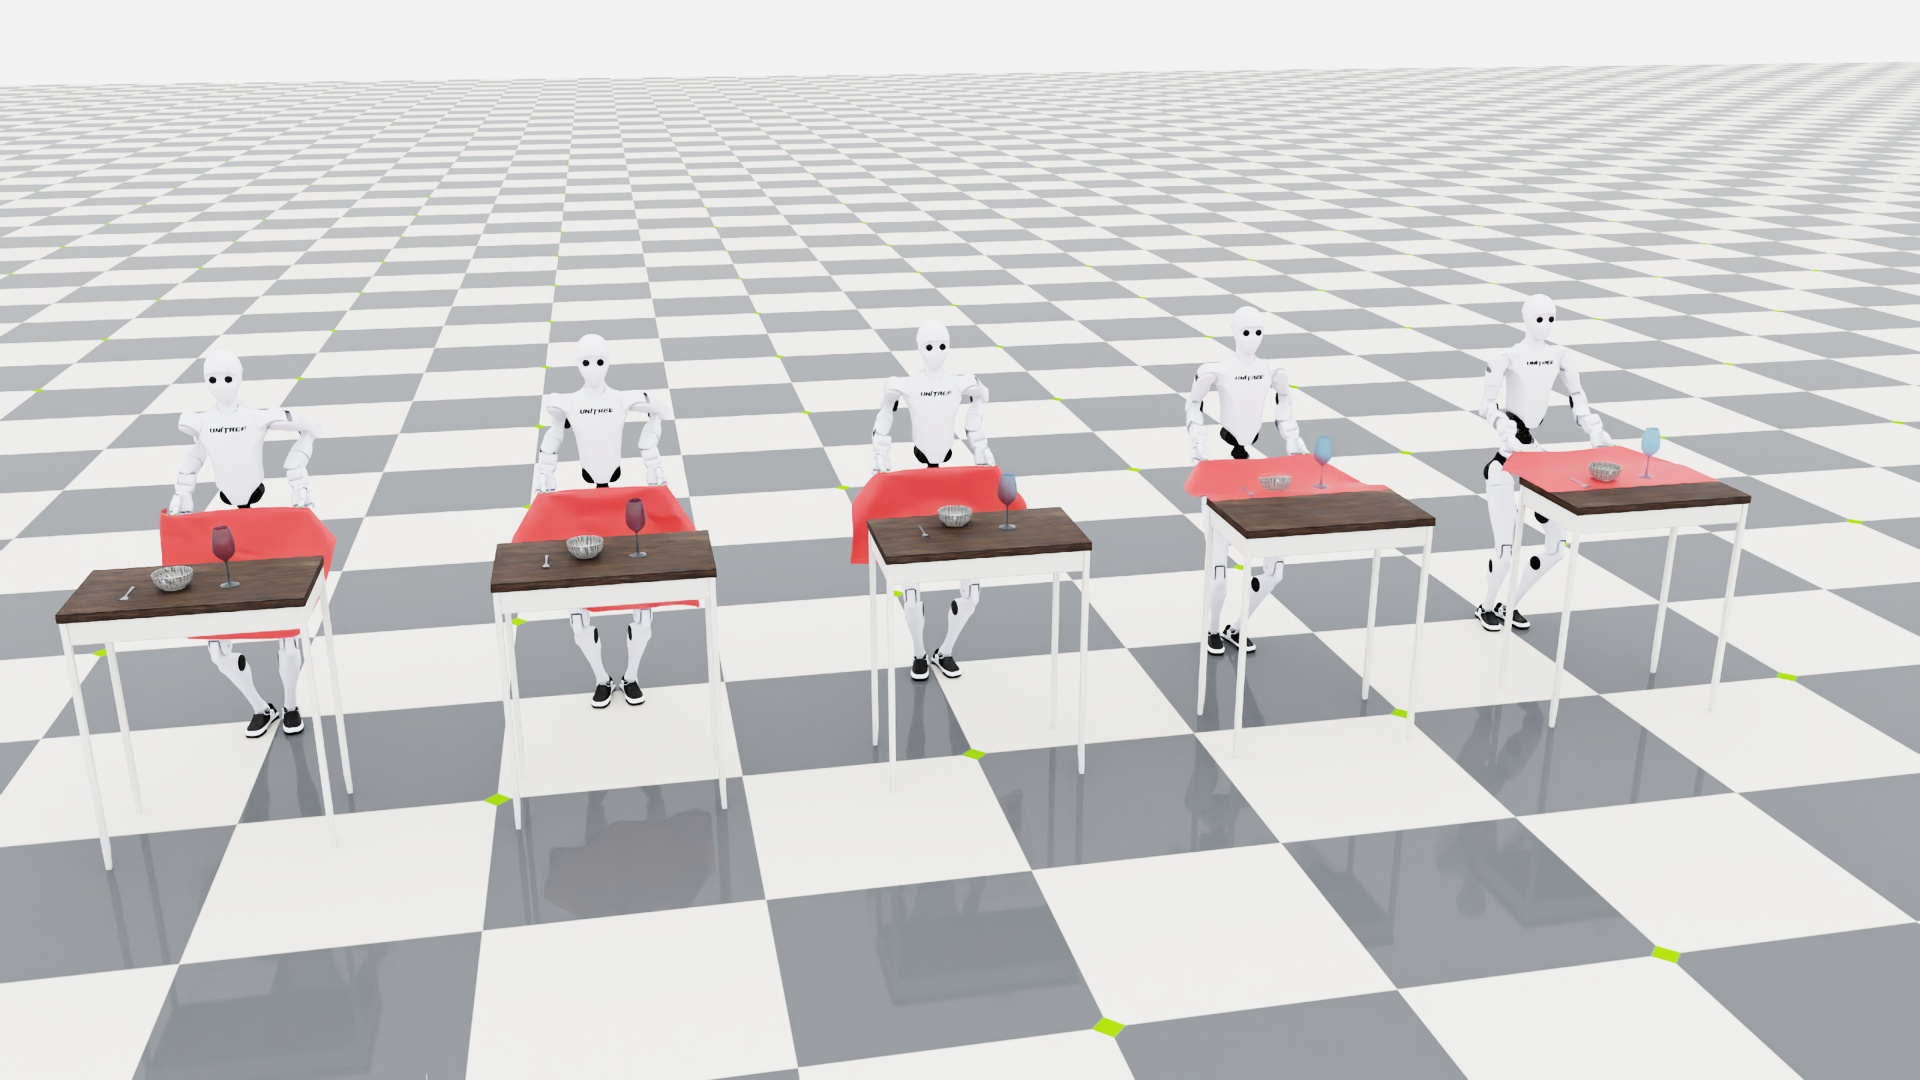
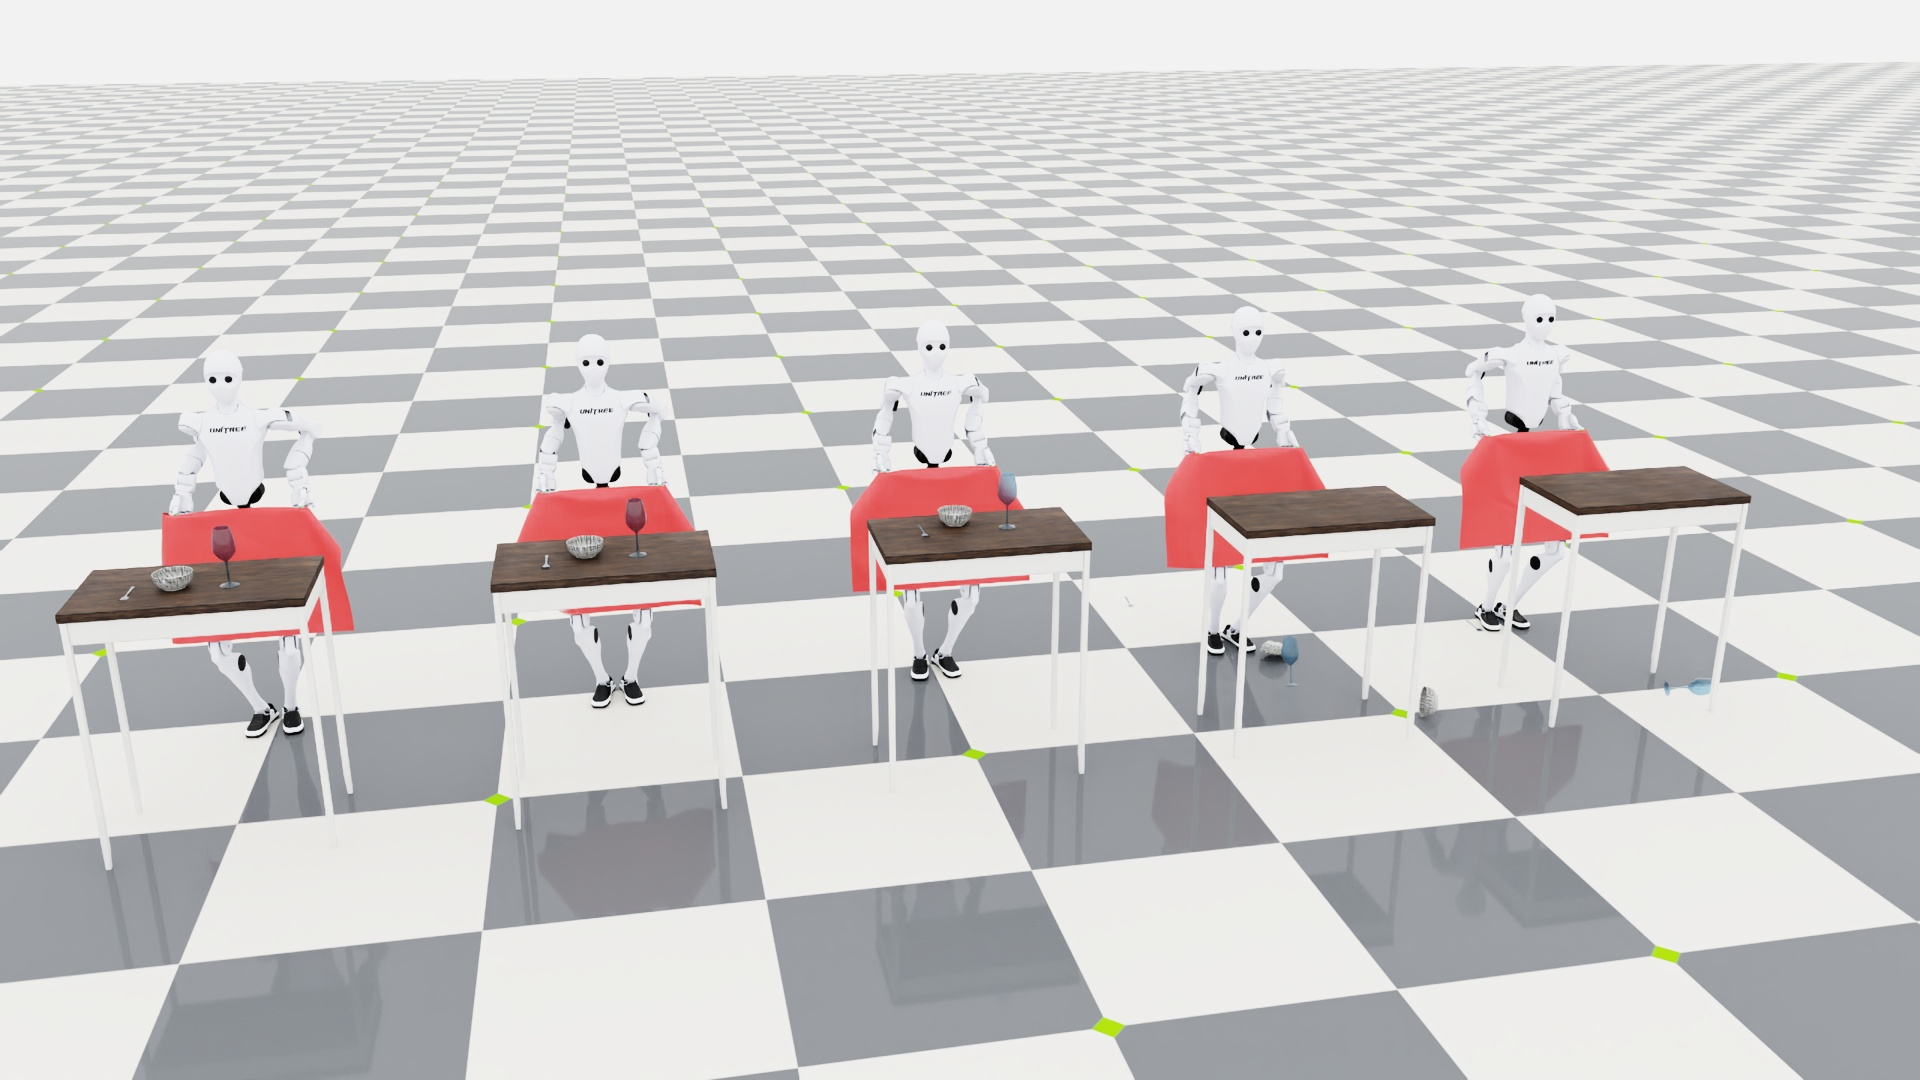
Document the final five-table pull outcomes

diff --git a/docs/source/how-to/run_state_machines.rst b/docs/source/how-to/run_state_machines.rst
@@ -54,10 +54,10 @@ Compare five humanoid tablecloth pulls
 
 This standalone example uses :class:`~isaaclab.scene.InteractiveScene` to build
 five side-by-side H2 Plus / SHARPA trials with the default Isaac Lab ground plane,
-wooden dining tables, and SimReady kitchenware. Newton VBD simulates the articulations, cloth, and tableware in a
-single solver. The Warp state machine and Newton IK run on the GPU inside the
-physics CUDA graph.
-It does not register an RL environment or require a trained policy.
+wooden dining tables, and SimReady kitchenware. Newton VBD simulates the
+articulations, cloth, and tableware in a single solver. The Warp state machine
+and Newton IK run on the GPU inside the physics CUDA graph. It does not register
+an RL environment or require a trained policy.
 
 .. figure:: ../_static/examples/tablecloth_h2.jpg
    :alt: Five side-by-side H2 Plus robots grasping red tablecloths beside kitchen tables.
@@ -77,20 +77,23 @@ downloaded and cached by Isaac Lab. ``--robot h1`` explicitly selects the existi
 it requires the ``importers`` extra. Both use physical contact-only grips, without cloth attachments.
 The H2 index fingers start beneath the hem; the thumbs close against their native
 rubber surfaces before the lift and pull. This is a calibrated pinch-and-pull example,
-not a general-purpose grasp planner. The H2 configuration uses 64 physics ticks per
-60 Hz control frame to resolve the fastest pull. Its position drives are simulation
-settings: direct VBD with compliant-ALM rigid dynamics does not enforce the
-asset's hardware torque limits or armature.
+not a general-purpose grasp planner. The H2 configuration uses 64 physics ticks
+per 60 Hz control frame to resolve the fastest pull. Native fingertip contacts
+are computationally expensive; this configuration does not target real-time
+playback. Its position drives are simulation settings: direct VBD with
+compliant-ALM rigid dynamics does not enforce the asset's hardware torque limits
+or armature.
 
 Use ``--speeds 2.0`` for one robot, or ``--viz none`` for a complete headless
 run. The default run duration includes the slowest pull and a final hold.
-All lanes use the same object masses, friction, cloth mesh, and 0.48 × 0.84 m
+All H2 lanes use the same object masses, friction, cloth mesh, and 0.48 × 0.84 m
 tabletop. Only the peak pull speed changes: the fastest pull leaves the arrangement
 nearly unchanged, the middle pulls produce more sliding, and the two slowest
 pulls carry the tableware off the table. The dining-table USD supplies the visuals;
 simple box proxies supply the tabletop and leg collisions.
 The pelvis is fixed with the feet at ground level: this demonstrates
 manipulation, not humanoid balance. Asset and cloth changes require revalidating
-the calibrated physical grasp. This experimental example checks material-point retention after
-a complete run and reports grasp failures; successful IK tracking alone does not establish a grasp.
-Kit uses Catmull-Clark subdivision for cloth rendering without refining the physics mesh.
+the calibrated physical grasp. This experimental example checks material-point
+retention after a complete run and reports grasp failures; successful IK tracking
+alone does not establish a grasp. Kit uses Catmull-Clark subdivision for cloth
+rendering without refining the physics mesh.
